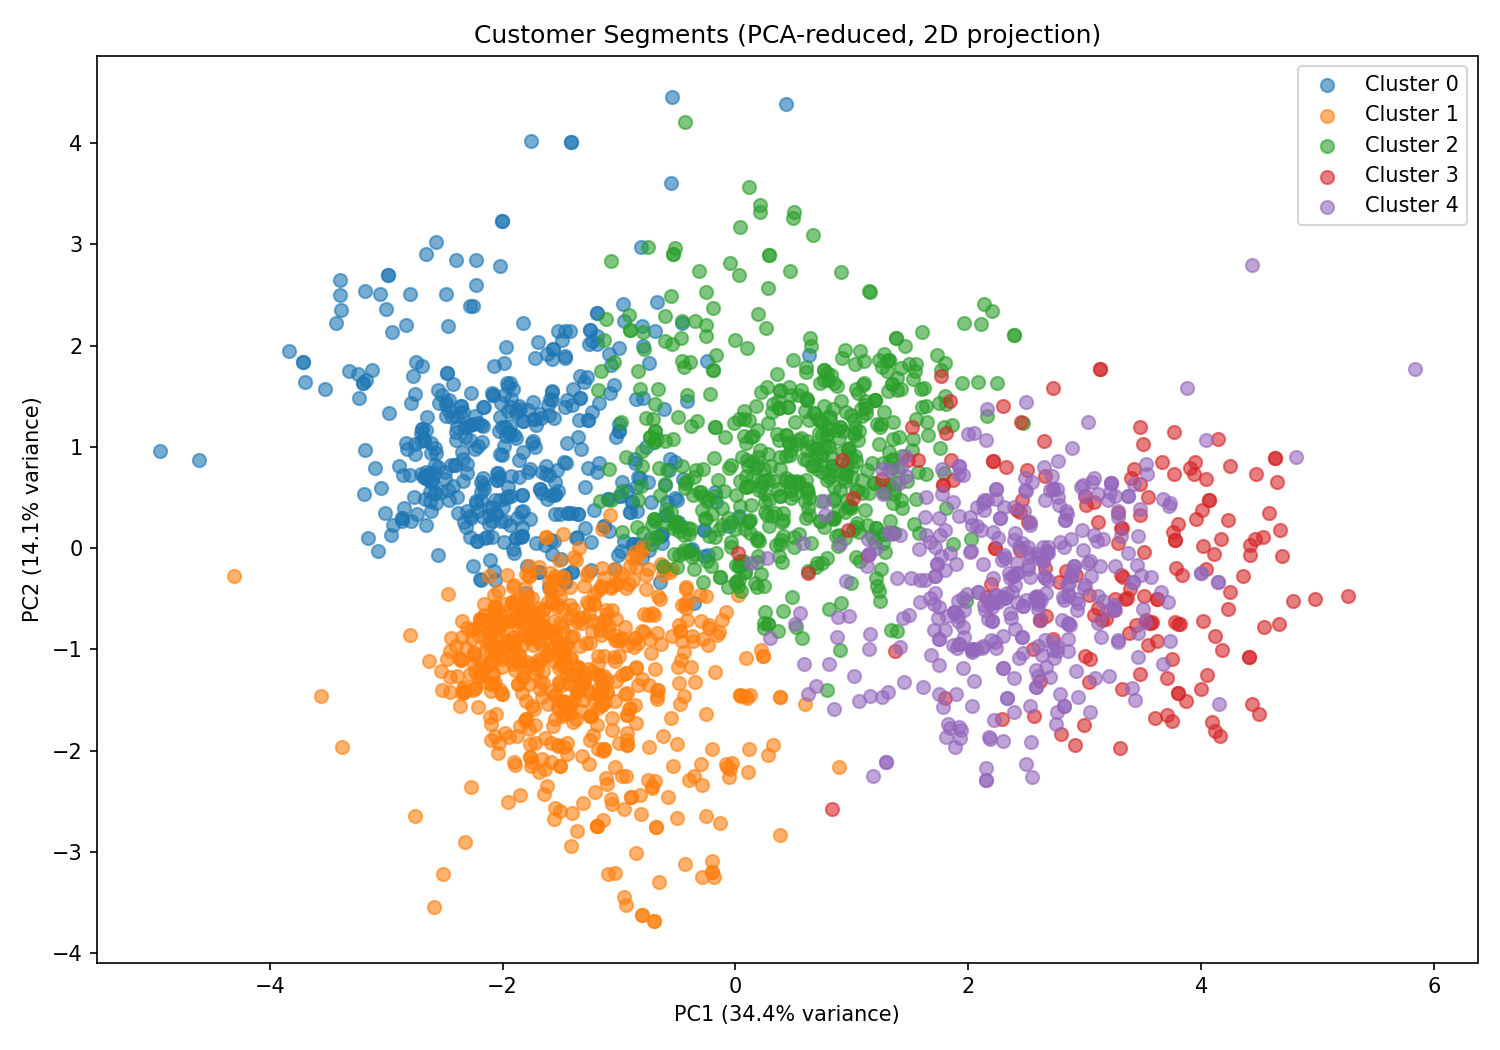
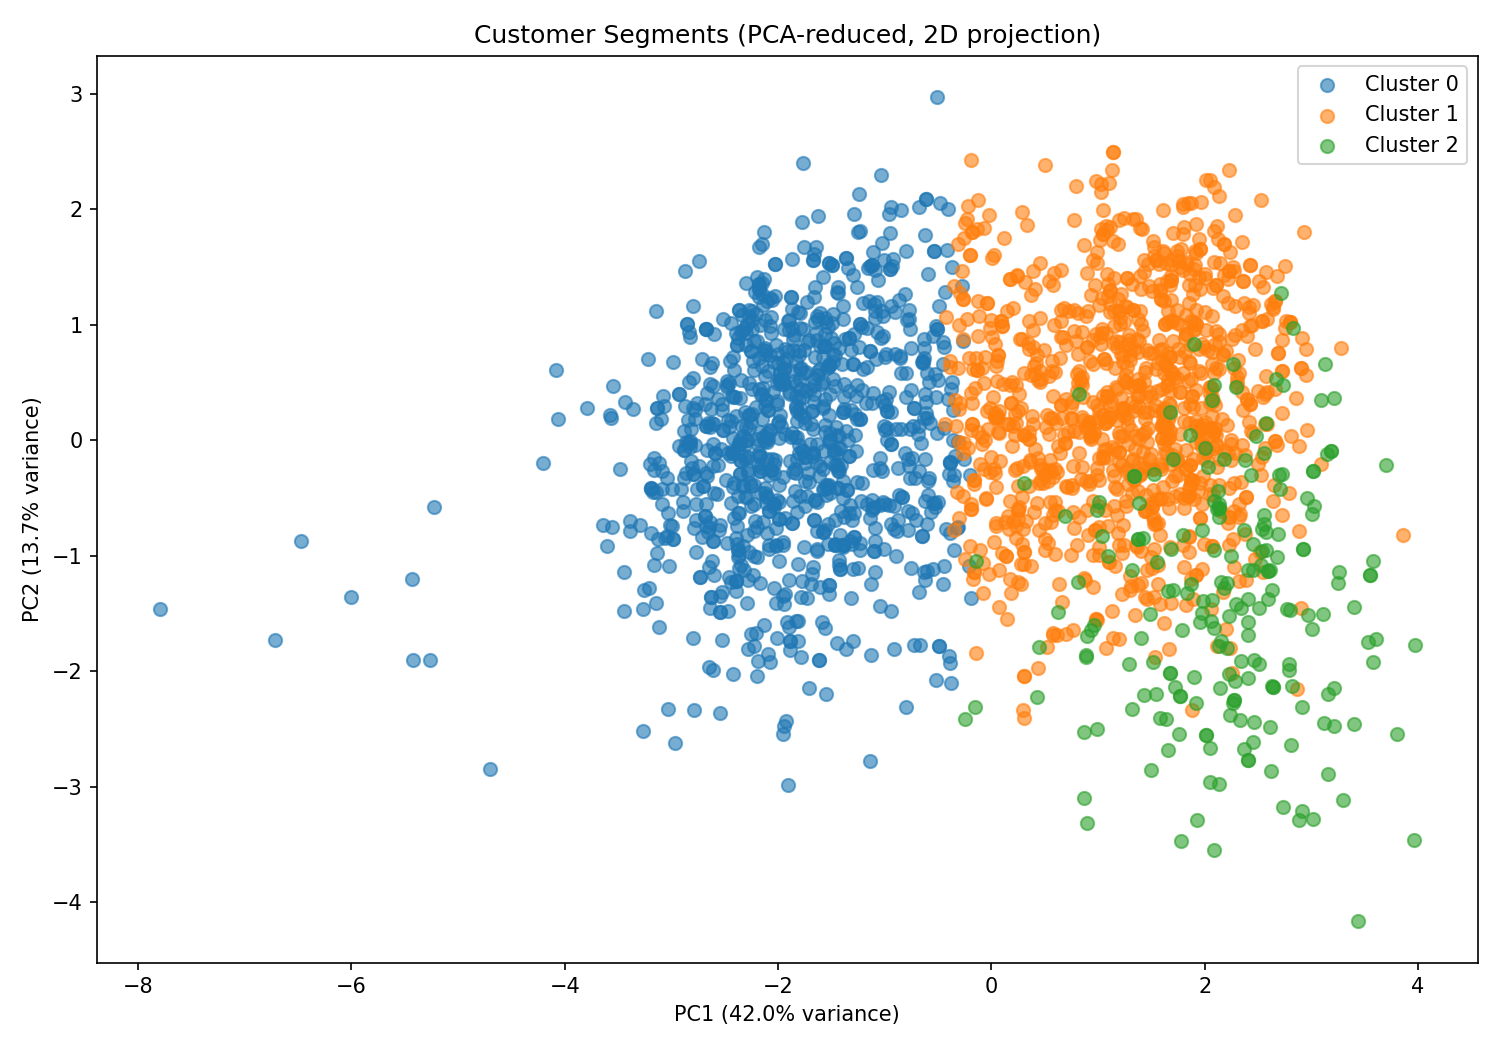
Update README with model evaluation results and final k=3 segments

diff --git a/src/clustering.py b/src/clustering.py
@@ -1,34 +1,45 @@
 """
-Clustering pipeline: preprocessing (encode + scale), K-Means, and cluster evaluation.
+Clustering pipeline: preprocessing (log-transform + scale), K-Means, and cluster evaluation.
 """
 import pandas as pd
 import numpy as np
-from sklearn.preprocessing import StandardScaler, OneHotEncoder
-from sklearn.compose import ColumnTransformer
-from sklearn.pipeline import Pipeline
+from sklearn.preprocessing import StandardScaler
+from sklearn.pipeline import Pipeline, FunctionTransformer
 from sklearn.cluster import KMeans
 from sklearn.metrics import silhouette_score
 import joblib
 
-# Features used for clustering — deliberately curated, not "throw every column in"
-NUMERIC_FEATURES = [
-    "Income", "Age", "Recency", "Customer_Tenure_Days",
-    "Total_Children", "Family_Size", "Total_Spending",
-    "Total_Purchases", "Total_Campaigns_Accepted", "NumWebVisitsMonth",
+# Final curated feature set — chosen via systematic comparison against a 10-feature
+# baseline and the tutorial's original set. This lean set scored highest on Silhouette
+# (~0.28 at k=3) by avoiding low-signal, redundant features (Family_Size, Total_Children,
+# Customer_Tenure_Days, Total_Purchases) that diluted K-Means distances.
+CLUSTERING_FEATURES = [
+    "Age", "Income", "Total_Spending",
+    "NumWebPurchases", "NumStorePurchases",
+    "NumWebVisitsMonth", "Recency", "Total_Campaigns_Accepted",
 ]
-CATEGORICAL_FEATURES = ["Education", "Marital_Status"]
-CLUSTERING_FEATURES = NUMERIC_FEATURES + CATEGORICAL_FEATURES
+
+# Right-skewed features that benefit from a log transform before scaling
+SKEWED_FEATURES = ["Income", "Total_Spending"]
+
+N_CLUSTERS = 3
 
 
-def build_preprocessor() -> ColumnTransformer:
-    """One-hot encode categoricals, standard-scale numerics. Required before K-Means,
-    since it's distance-based and sensitive to feature scale/units."""
-    return ColumnTransformer(
-        transformers=[
-            ("num", StandardScaler(), NUMERIC_FEATURES),
-            ("cat", OneHotEncoder(drop="first", handle_unknown="ignore"), CATEGORICAL_FEATURES),
-        ]
-    )
+def log_transform_skewed(X: pd.DataFrame) -> pd.DataFrame:
+    """Apply log1p to skewed columns only, leave the rest untouched."""
+    X = X.copy()
+    for col in SKEWED_FEATURES:
+        if col in X.columns:
+            X[col] = np.log1p(X[col])
+    return X
+
+
+def build_preprocessor() -> Pipeline:
+    """Log-transform skewed features, then standard-scale everything."""
+    return Pipeline([
+        ("log_transform", FunctionTransformer(log_transform_skewed, feature_names_out="one-to-one")),
+        ("scaler", StandardScaler()),
+    ])
 
 
 def find_optimal_k(X_processed: np.ndarray, k_range=range(2, 11)) -> pd.DataFrame:
@@ -45,7 +56,7 @@ def find_optimal_k(X_processed: np.ndarray, k_range=range(2, 11)) -> pd.DataFram
     return pd.DataFrame(results)
 
 
-def train_final_model(df: pd.DataFrame, n_clusters: int) -> Pipeline:
+def train_final_model(df: pd.DataFrame, n_clusters: int = N_CLUSTERS) -> Pipeline:
     """Fit the full preprocessing + K-Means pipeline as a single sklearn Pipeline object,
     so preprocessing and model are saved/loaded together — no train/serve skew."""
     pipeline = Pipeline([

diff --git a/app/streamlit_app.py b/app/streamlit_app.py
@@ -13,11 +13,9 @@ MODEL_PATH = os.path.join(os.path.dirname(__file__), "..", "models", "kmeans_pip
 PROFILES_PATH = os.path.join(os.path.dirname(__file__), "..", "models", "cluster_profiles.csv")
 
 CLUSTER_PERSONAS = {
-    0: "Older, budget-conscious households with children — low engagement",
-    1: "Younger, lower-income customers — lowest spenders, low engagement",
-    2: "Mature, comfortable-income customers — strong spenders",
-    3: "High-income, top spenders with the highest campaign responsiveness — VIP segment",
-    4: "High-income, high-spending customers with few/no children — low campaign engagement",
+    0: "Lower income, low spending, low engagement — budget segment",
+    1: "Higher income, strong spenders, but low campaign response",
+    2: "Highest income, highest spenders, highly campaign-responsive — VIP segment",
 }
 
 
@@ -45,33 +43,25 @@ def main():
     with col1:
         age = st.slider("Age", 18, 90, 40)
         income = st.number_input("Annual Income ($)", 0, 200000, 50000, step=1000)
-        education = st.selectbox("Education", ["Undergraduate", "Master", "PhD"])
-        marital_status = st.selectbox("Marital Status", ["Single", "Partnered"])
-        total_children = st.slider("Number of Children", 0, 3, 0)
-        family_size = st.slider("Family Size", 1, 6, 1 + total_children)
+        total_spending = st.number_input("Total Spending ($, last 2 years)", 0, 3000, 500)
+        recency = st.slider("Days Since Last Purchase", 0, 100, 30)
 
     with col2:
-        total_spending = st.number_input("Total Spending ($, last 2 years)", 0, 3000, 500)
-        total_purchases = st.slider("Total Purchases", 0, 40, 10)
-        recency = st.slider("Days Since Last Purchase", 0, 100, 30)
-        tenure_days = st.slider("Customer Tenure (days)", 0, 1000, 300)
-        campaigns_accepted = st.slider("Campaigns Accepted (past 5)", 0, 5, 0)
+        num_web_purchases = st.slider("Web Purchases", 0, 30, 5)
+        num_store_purchases = st.slider("Store Purchases", 0, 20, 5)
         web_visits = st.slider("Web Visits per Month", 0, 20, 5)
+        campaigns_accepted = st.slider("Campaigns Accepted (past 5)", 0, 5, 0)
 
     if st.button("Predict Segment", type="primary"):
         input_df = pd.DataFrame([{
-            "Income": income,
             "Age": age,
-            "Recency": recency,
-            "Customer_Tenure_Days": tenure_days,
-            "Total_Children": total_children,
-            "Family_Size": family_size,
+            "Income": income,
             "Total_Spending": total_spending,
-            "Total_Purchases": total_purchases,
-            "Total_Campaigns_Accepted": campaigns_accepted,
+            "NumWebPurchases": num_web_purchases,
+            "NumStorePurchases": num_store_purchases,
             "NumWebVisitsMonth": web_visits,
-            "Education": education,
-            "Marital_Status": marital_status,
+            "Recency": recency,
+            "Total_Campaigns_Accepted": campaigns_accepted,
         }])
 
         cluster = pipeline.predict(input_df)[0]

diff --git a/src/train.py b/src/train.py
@@ -5,11 +5,9 @@ import pandas as pd
 import joblib
 
 from data_processing import preprocess_pipeline
-from clustering import build_preprocessor, CLUSTERING_FEATURES
+from clustering import build_preprocessor, CLUSTERING_FEATURES, N_CLUSTERS
 from sklearn.pipeline import Pipeline
 from sklearn.cluster import KMeans
-
-N_CLUSTERS = 5
 
 
 def train_and_save(raw_path: str, processed_path: str, model_path: str) -> pd.DataFrame:
@@ -35,10 +33,10 @@ def train_and_save(raw_path: str, processed_path: str, model_path: str) -> pd.Da
 
 def profile_clusters(df: pd.DataFrame) -> pd.DataFrame:
     """Summarize each cluster's average characteristics — turns raw cluster IDs into
-    business-readable personas, which is the actual point of segmentation."""
+    business-readable personas."""
     profile_cols = [
-        "Age", "Income", "Total_Spending", "Total_Purchases",
-        "Total_Children", "Family_Size", "Recency", "Total_Campaigns_Accepted",
+        "Age", "Income", "Total_Spending", "NumWebPurchases",
+        "NumStorePurchases", "NumWebVisitsMonth", "Recency", "Total_Campaigns_Accepted",
     ]
     summary = df.groupby("Cluster")[profile_cols].mean().round(1)
     summary["Count"] = df.groupby("Cluster").size()

diff --git a/src/visualization.py b/src/visualization.py
@@ -39,7 +39,7 @@ def plot_pca_clusters(X_processed, labels, save_path: str = None) -> pd.DataFram
 
 
 if __name__ == "__main__":
-    from clustering import build_preprocessor, CLUSTERING_FEATURES
+    from clustering import build_preprocessor, CLUSTERING_FEATURES, N_CLUSTERS
     from sklearn.cluster import KMeans
 
     df = pd.read_csv("data/processed/customer_segmentation_clean.csv")
@@ -47,7 +47,7 @@ if __name__ == "__main__":
     preprocessor = build_preprocessor()
     X_processed = preprocessor.fit_transform(df[CLUSTERING_FEATURES])
 
-    kmeans = KMeans(n_clusters=5, init="k-means++", n_init=10, random_state=42)
+    kmeans = KMeans(n_clusters=N_CLUSTERS, init="k-means++", n_init=10, random_state=42)
     labels = kmeans.fit_predict(X_processed)
 
     plot_pca_clusters(X_processed, labels, save_path="models/pca_clusters.png")

diff --git a/README.md b/README.md
@@ -9,22 +9,31 @@ dataset (2,240 customers, 29 raw features).
   and engineered features (`Total_Spending`, `Total_Purchases`, `Family_Size`,
   `Customer_Tenure_Days`, `Total_Campaigns_Accepted`).
 - **Exploratory Data Analysis** — see `notebooks/eda.ipynb`.
-- **K-Means clustering** with a curated, scaled, one-hot-encoded feature set.
-- **Cluster evaluation** via the Elbow Method (WCSS) and Silhouette Score across k=2–10.
-- **PCA visualization** of the resulting 5 clusters in 2D.
+- **K-Means clustering** on a curated, log-transformed, scaled feature set (selected via
+  systematic comparison, not the full engineered feature list — see Model Evaluation below).
+- **Cluster evaluation** via the Elbow Method (WCSS) and Silhouette Score across k=2–10,
+  compared across multiple feature-set candidates.
+- **PCA visualization** of the resulting clusters in 2D.
 - **Interactive Streamlit app** for real-time segment prediction on new customer input.
 - **Model persistence** — the entire preprocessing + K-Means pipeline is saved as a
   single Joblib artifact (no train/serve skew).
 
-## Segments discovered (k=5)
+## Model evaluation
 
-| Cluster | Profile |
-|---|---|
-| 0 | Older, budget-conscious households with children — low engagement |
-| 1 | Younger, lower-income customers — lowest spenders, low engagement |
-| 2 | Mature, comfortable-income customers — strong spenders |
-| 3 | High-income, top spenders, highest campaign responsiveness — VIP segment |
-| 4 | High-income, high-spending, few/no children — low campaign engagement |
+Systematically compared feature subsets and cluster counts using the Elbow Method (WCSS)
+and Silhouette Score, rather than picking k by eye. A lean, curated feature set (`Age`,
+`Income`, `Total_Spending`, `NumWebPurchases`, `NumStorePurchases`, `NumWebVisitsMonth`,
+`Recency`, `Total_Campaigns_Accepted`) with log-transformed skewed variables outperformed
+both a wider 10-feature set and the tutorial's original feature list — improving Silhouette
+Score from 0.16 to **0.28** at k=3.
+
+## Segments discovered (k=3)
+
+| Cluster | Profile | Count |
+|---|---|---|
+| 0 | Lower income, low spending, low engagement — budget segment | 973 |
+| 1 | Higher income, strong spenders, low campaign response | 1057 |
+| 2 | Highest income, highest spenders, highly campaign-responsive — VIP segment | 206 |
 
 ## Project structure
 
